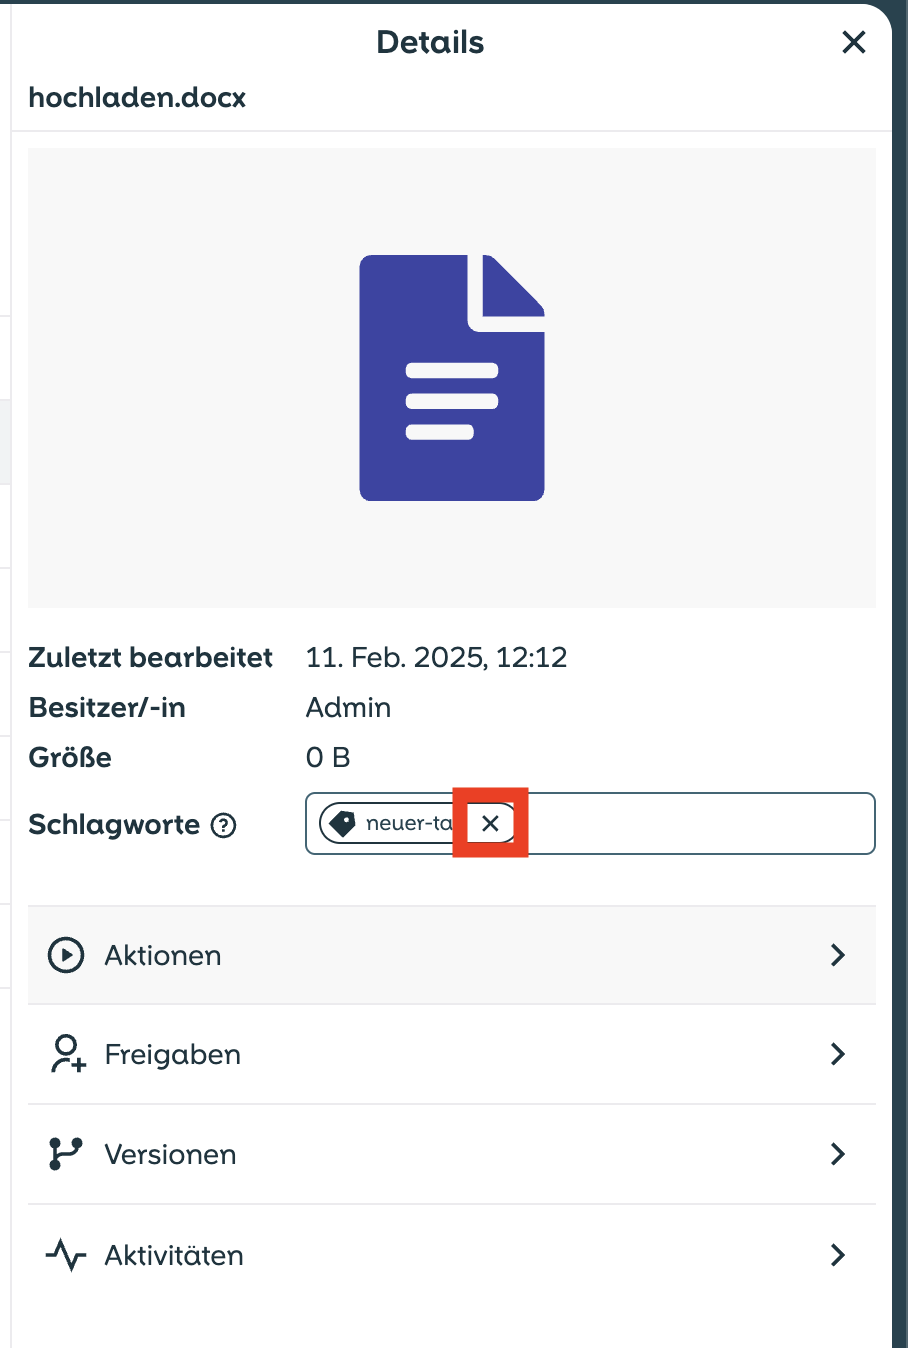
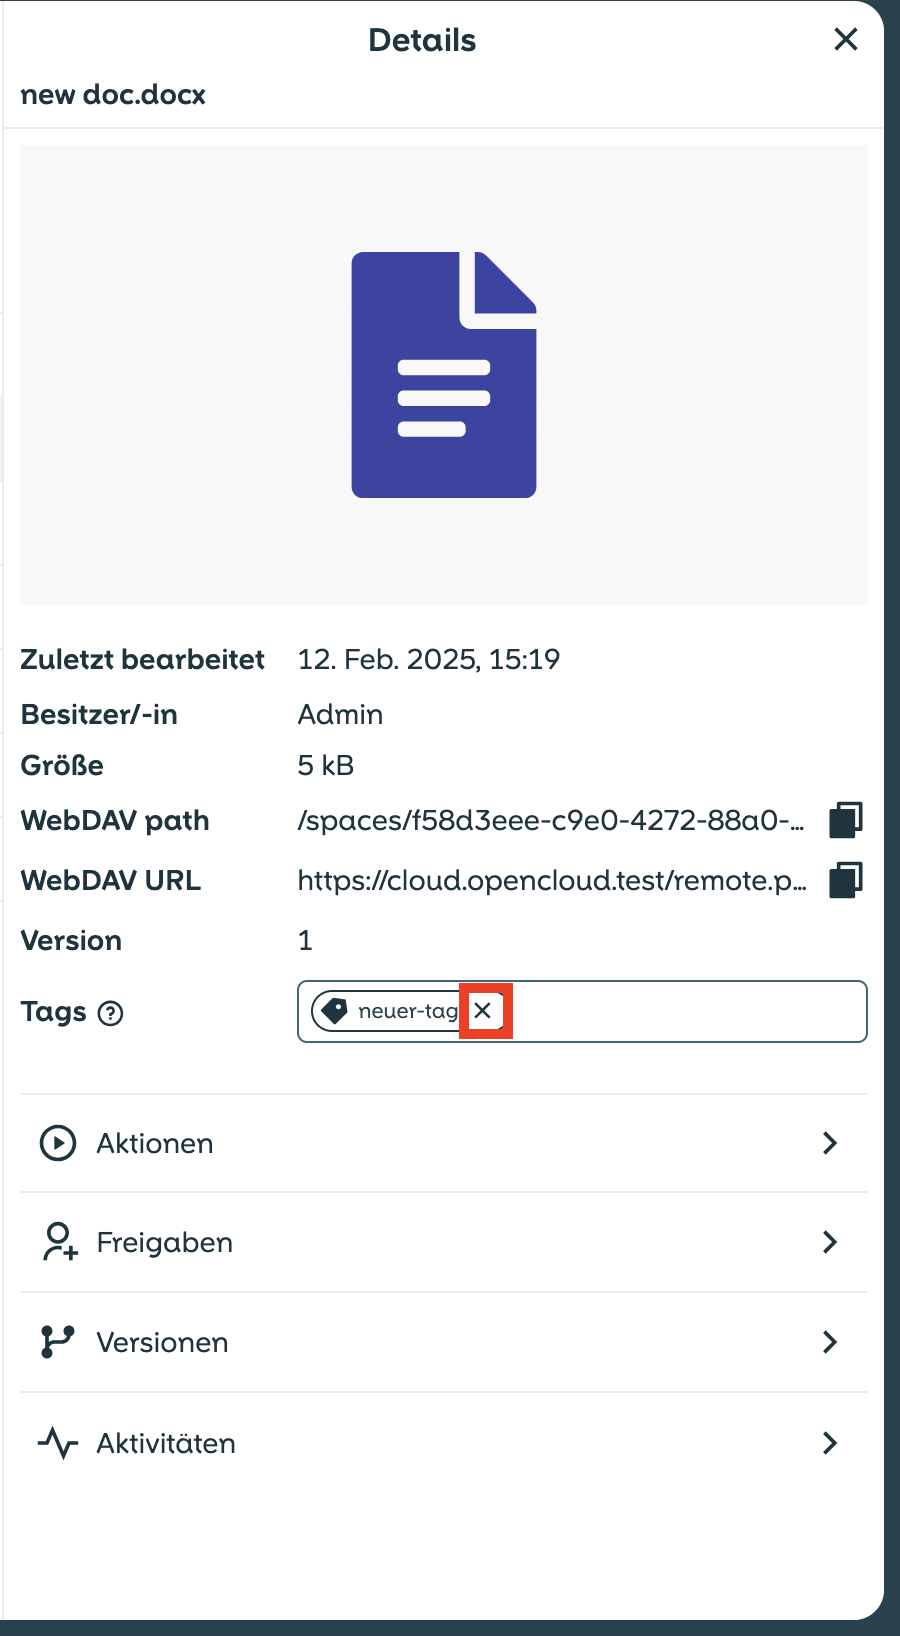
remove Schlagworte from german version and add new images (#87)

diff --git a/i18n/de/docusaurus-plugin-content-docs/current/user/files-and-folders/tags.md b/i18n/de/docusaurus-plugin-content-docs/current/user/files-and-folders/tags.md
@@ -4,10 +4,10 @@ id: tags
 title: Tags
 ------
 
-# Tags / Schlagworte
+# Tags
 <br/><br/>
 
-## Tags / Schlagworte hinzufügen und verwalten mit OpenCloud
+## Tags hinzufügen und verwalten mit OpenCloud
 <br/><br/>
 
 ### Mit OpenCloud können Sie Dateien und Ordner mit **Tags** versehen, um diese einfacher zu suchen oder zu gruppieren. Hier erfahren Sie, wie es funktioniert
@@ -19,37 +19,37 @@ title: Tags
 
 - **Kontextmenü öffnen**  
    - Machen Sie einen **Rechtsklick** auf die Datei oder den Ordner, oder  
-   - Klicken Sie auf die **drei Punkte** in der entsprechenden Zeile.  
+   - Klicken Sie auf die **drei Punkte** in der entsprechenden Zeile
    <img src={require("./img/tags/drei-punkte-menue.png").default} width="1920"/>
 <br/><br/>
 
 - **Details auswählen**  
-   Wählen Sie im Kontextmenü die Option **„Details“** aus.  
+   Wählen Sie im Kontextmenü die Option **"Details“** aus
    <img src={require("./img/tags/details-button.png").default} width="1920"/>
 <br/><br/>
 
 - **Tag eingeben**  
-   - Klicken Sie in das Eingabefeld neben **„Schlagworte“**.  
-   <img src={require("./img/tags/schlagwort-zeile.png").default} width="400"/>
+   - Klicken Sie in das Eingabefeld neben **"Tags“** 
+   <img src={require("./img/tags/tags-zeile.png").default} width="400"/>
    <br/><br/>
    - Wählen Sie einen vorhandenen Tag aus, oder  
-   - Geben Sie einen neuen Begriff ein, um einen neuen Tag zu erstellen.  
+   - Geben Sie einen neuen Begriff ein, um einen neuen Tag zu erstellen
    <img src={require("./img/tags/tag-auswaehlen.png").default} width="400"/>
 <br/><br/>
 
 - **Fertig**  
-   Der Tag wird hinzugefügt und ist nun mit der Datei oder dem Ordner verknüpft.
+   Der Tag wird hinzugefügt und ist nun mit der Datei oder dem Ordner verknüpft
 <br/><br/>
 
 ---
 
 #### Tag entfernen
 
-- Öffnen Sie erneut die **„Details“** der Datei/des Ordners.  
+- Öffnen Sie erneut die **„Details“** der Datei/des Ordners
 <img src={require("./img/tags/details-button.png").default} width="1920"/>
 <br/><br/>
 - Suchen Sie den Tag, den Sie entfernen möchten.  
-- Klicken Sie auf das **„X“** neben dem Tag, um ihn zu löschen.  
+- Klicken Sie auf das **„X“** neben dem Tag, um ihn zu löschen
 <img src={require("./img/tags/tag-loeschen.png").default} width="400"/>
 <br/><br/>
 
